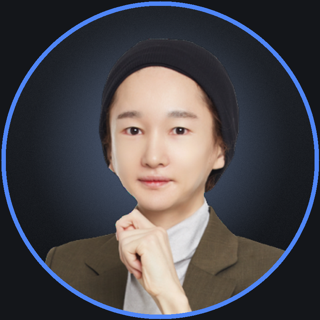
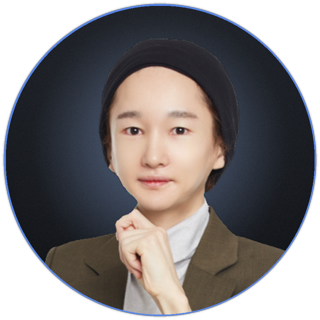
히어로 프로필: 사각 카드 제거, 원형 투명처리로 배경에 떠보이게(+그림자)

Changed region(s): [[0.0, 0.0, 1.0, 1.0]]

diff --git a/index.html b/index.html
@@ -89,9 +89,9 @@
   .hero .sub b{color:var(--txt);font-weight:600}
   .hero-cta{display:flex;gap:12px;flex-wrap:wrap}
   .portrait{position:relative;justify-self:end}
-  .portrait .frame{border:1px solid var(--line2);border-radius:14px;overflow:hidden;background:var(--panel);width:262px}
-  .portrait .frame img{width:100%;display:block}
-  .portrait .cap{border-top:1px solid var(--line);padding:13px 16px;font-size:13px;color:var(--muted)}
+  .portrait .frame{width:262px}
+  .portrait .frame img{width:100%;display:block;filter:drop-shadow(0 12px 32px rgba(0,0,0,.45))}
+  .portrait .cap{padding:16px 8px 0;font-size:13px;color:var(--muted);text-align:center}
   .portrait .cap b{color:var(--txt);font-weight:600;display:block;font-size:14px;margin-bottom:1px}
   .portrait .cap.m{display:none}
   @media(max-width:780px){